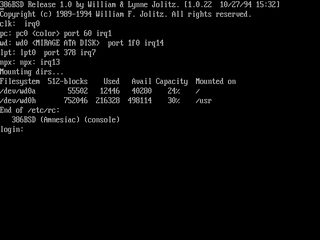
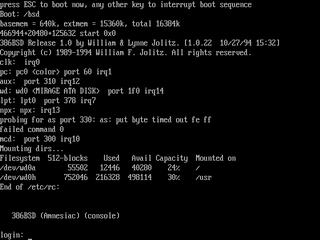
COMPATIBILITY: 386BSD to login:, drawn whole

diff --git a/docs/COMPATIBILITY.md b/docs/COMPATIBILITY.md
@@ -47,7 +47,7 @@ needs beyond the defaults (16 MiB, the `386` profile, no PCI).
 | <img src="compat/os-dsl.png" width="160" alt=""> | Linux 2.4 (Damn Small Linux 4.4.10 CD, *official media*) | 🟠 Starts | runlevel 5, then a black screen and an idle CPU (X starting? not seen) after 900 guest s | 64 MiB, `586` | 2026-11-05 |
 | <img src="compat/elks.png" width="160" alt=""> | ELKS | 🟢 Plays | `login:` | — | 2026-11-05 |
 | <img src="compat/unixv7.png" width="160" alt=""> | Unix V7/x86 | 🟢 Plays | a single-user shell (Enter at `BOOT`) | — | 2026-11-05 |
-| <img src="compat/386bsd.png" width="160" alt=""> | 386BSD 1.0 | 🟠 Starts | `login:` in video memory (Esc at its boot prompt), but the screen shows one text row once the kernel has the console: a display defect (the picture is the text read from memory) | — | 2026-11-05 |
+| <img src="compat/386bsd.png" width="160" alt=""> | 386BSD 1.0 | 🟢 Renders | `login:` (Esc at its boot prompt) | — | 2026-11-06 |
 | <img src="compat/netbsd.png" width="160" alt=""> | NetBSD 4.0.1 | 🟢 Plays | `login:`; a root shell, multi-user (2026-09) | 256 MiB, `pentium` | 2026-11-05 |
 | <img src="compat/os-openbsd.png" width="160" alt=""> | OpenBSD | 🟠 Starts | `login:` at 900 guest s (the image's password is not known) | 128 MiB, `586` | 2026-11-06 |
 | <img src="compat/qnx.png" width="160" alt=""> | QNX 4.05 demo disk | 🟠 Starts | the welcome screen; stops asking for a network card | — | 2026-11-05 |

diff --git a/CHANGELOG.md b/CHANGELOG.md
@@ -10,6 +10,9 @@ change is in the [commit history](https://github.com/jfrelat-lab/mirage-x86/comm
   Its loader is a scheduler driven by the single-step trap, and an `INT n` was wrongly followed by a
   trap (DOSBox-X counts 9 traps on the new probe `tools/inttrap.asm`, MIRAGE counted 11); it also
   needed INT 21h AH=55h, a child PSP, and a child that ends without ending its parent.
+- **386BSD's console shows whole**, to `login:`. Its kernel zeroes the BIOS data area, where MIRAGE
+  read the number of text rows, and drew one row; the text screen's size now comes from the video
+  card's own registers, as on real hardware and in QEMU.
 
 - **Windows ME, Linux 3.x and TinyCore no longer freeze**: the recompiler's memo of past translations
   was bounded by a count of blocks, each holding its compiled function; once paged blocks grew it held

diff --git a/docs/KNOWN-ISSUES.md b/docs/KNOWN-ISSUES.md
@@ -25,7 +25,6 @@ is only suspected. What is planned about them is in [ROADMAP.md](ROADMAP.md); wh
 | ReactOS 0.4.15 | a stop in the kernel | **Known**: no ACPI tables. |
 | Plan 9 (9legacy) | after the kernel is entered | **Known**: it runs with an instruction pointer above FFFFh in a 16-bit code segment, which MIRAGE does not handle. |
 | Damn Small Linux 4.4.10 | a black screen at runlevel 5 | **Unknown**: not investigated — it may only be slow. |
-| 386BSD 1.0 | not stopped: `login:` is in video memory | **Display**: once the kernel has the console, the screen is drawn as one text row (640×16). Not investigated. |
 | XCOM (`xcom144.img`) | its 640×480 screen draws as noise | **Display, suspected**: the system runs (HDPMI32, its FreeDOS); its desktop was drawn in 2026-09. |
 
 ## Time
